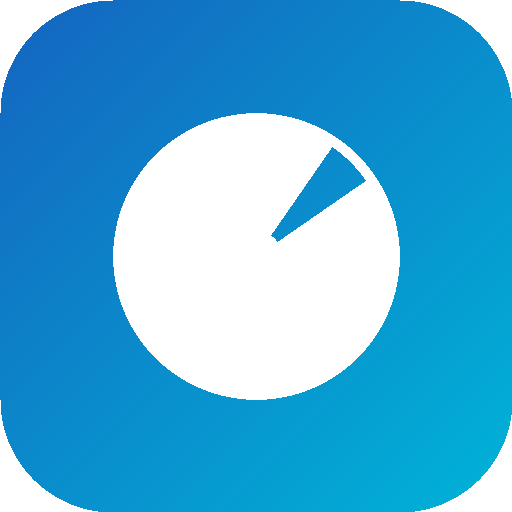
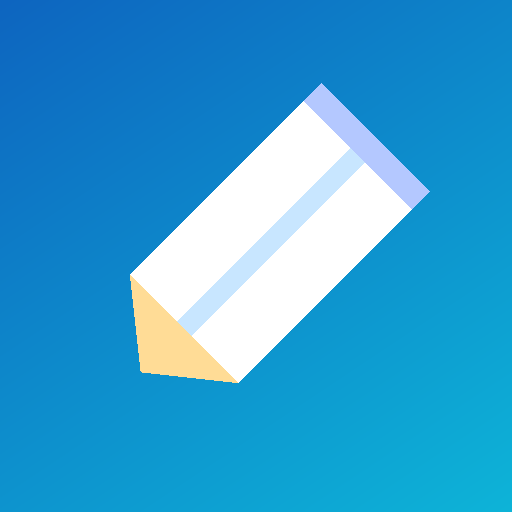
feat: tutorial completo, guia de instalacao Android/iOS, icones melhorados, manifest corrigido

diff --git a/index.html b/index.html
@@ -38,6 +38,7 @@
         <span class="material-icons-round">workspace_premium</span>
         <span id="planChipLabel">Premium</span>
       </div>
+      <button class="icon-btn" id="btnHelp" title="Ajuda"><span class="material-icons-round">help_outline</span></button>
       <button class="icon-btn" id="btnSearch"><span class="material-icons-round">search</span></button>
       <button class="icon-btn" id="btnProfile"><span class="material-icons-round">account_circle</span></button>
     </div>
@@ -339,7 +340,18 @@
             <span class="material-icons-round" style="color:var(--accent)">install_mobile</span>
             <div>
               <p class="settings-label">Instalar no celular</p>
-              <p class="settings-sub">Adicione o app à tela inicial</p>
+              <p class="settings-sub">Guia passo a passo para Android e iPhone</p>
+            </div>
+          </div>
+          <span class="material-icons-round settings-arrow">chevron_right</span>
+        </div>
+
+        <div class="settings-item clickable" id="btnHelpSettings">
+          <div class="settings-item-info">
+            <span class="material-icons-round" style="color:var(--blue-glow)">menu_book</span>
+            <div>
+              <p class="settings-label">Como usar o app</p>
+              <p class="settings-sub">Tutorial passo a passo completo</p>
             </div>
           </div>
           <span class="material-icons-round settings-arrow">chevron_right</span>
@@ -642,6 +654,136 @@
       <button class="btn-ghost" id="btnCancelPayment">Cancelar</button>
     </div>
     <p class="stripe-security"><span class="material-icons-round">lock</span>Pagamento seguro via Stripe</p>
+  </div>
+</div>
+
+<!-- MODAL: AJUDA / TUTORIAL -->
+<div class="modal-overlay hidden" id="modalHelp">
+  <div class="modal-sheet tall">
+    <div class="modal-handle"></div>
+    <div class="help-header">
+      <span class="material-icons-round help-icon">menu_book</span>
+      <h3 class="modal-title" style="margin:0">Como usar o Scribble Converter</h3>
+    </div>
+
+    <div class="help-steps">
+
+      <div class="help-step">
+        <div class="step-num">1</div>
+        <div class="step-body">
+          <p class="step-title">Crie sua conta</p>
+          <p class="step-desc">Toque em <strong>Perfil</strong> → <strong>Criar conta</strong>. Insira seu e-mail e senha, aceite a Política de Privacidade e pronto. O login guarda seus documentos na nuvem.</p>
+        </div>
+      </div>
+
+      <div class="help-step">
+        <div class="step-num">2</div>
+        <div class="step-body">
+          <p class="step-title">Escaneie um documento</p>
+          <p class="step-desc">Toque no botão <strong>azul</strong> (câmera) no canto inferior direito. Escolha <strong>Câmera</strong> para fotografar ou <strong>Galeria</strong> para enviar uma imagem já salva.</p>
+        </div>
+      </div>
+
+      <div class="help-step">
+        <div class="step-num">3</div>
+        <div class="step-body">
+          <p class="step-title">Escolha o tipo de saída</p>
+          <p class="step-desc">Antes de reconhecer, selecione <strong>Word (.docx)</strong> para textos corridos ou <strong>Excel (.xlsx)</strong> para documentos com números e tabelas.</p>
+        </div>
+      </div>
+
+      <div class="help-step">
+        <div class="step-num">4</div>
+        <div class="step-body">
+          <p class="step-title">Reconheça o texto</p>
+          <p class="step-desc">Toque em <strong>"Reconhecer Texto"</strong>. O OCR processa a imagem, melhora o contraste automaticamente e extrai o texto manuscrito ou impresso.</p>
+        </div>
+      </div>
+
+      <div class="help-step">
+        <div class="step-num">5</div>
+        <div class="step-body">
+          <p class="step-title">Edite e exporte</p>
+          <p class="step-desc">O texto aparece editável. Corrija se necessário, dê um nome ao documento e toque em <strong>Exportar para Word</strong> ou <strong>Excel</strong>. O arquivo é baixado direto no celular. <em>(Requer plano Premium)</em></p>
+        </div>
+      </div>
+
+      <div class="help-step">
+        <div class="step-num">6</div>
+        <div class="step-body">
+          <p class="step-title">Salve na nuvem</p>
+          <p class="step-desc">Toque em <strong>Salvar</strong> para guardar o documento na nuvem (Supabase). Acesse de qualquer dispositivo fazendo login. <em>(Requer plano Premium)</em></p>
+        </div>
+      </div>
+
+      <div class="help-step">
+        <div class="step-num">7</div>
+        <div class="step-body">
+          <p class="step-title">Compartilhe</p>
+          <p class="step-desc">Toque em <strong>Compartilhar</strong> para enviar o texto via WhatsApp, e-mail ou copiar para a área de transferência. Disponível em todos os planos.</p>
+        </div>
+      </div>
+
+      <div class="help-step">
+        <div class="step-num">8</div>
+        <div class="step-body">
+          <p class="step-title">Assine o Premium</p>
+          <p class="step-desc">Visitantes têm <strong>5 scans/mês</strong> e não podem exportar. Assine o <strong>Premium (R$ 19,90/mês)</strong> ou <strong>Anual (R$ 167,00)</strong> para uso ilimitado.</p>
+        </div>
+      </div>
+
+      <div class="help-tip">
+        <span class="material-icons-round">lightbulb</span>
+        <div>
+          <strong>Dicas para melhor OCR:</strong>
+          <ul>
+            <li>Boa iluminação, sem sombras sobre o texto</li>
+            <li>Câmera paralela ao papel (sem inclinação)</li>
+            <li>Letra legível e espaçada</li>
+            <li>Em <strong>Config.</strong> ajuste o <em>Tipo de documento</em> conforme o conteúdo</li>
+          </ul>
+        </div>
+      </div>
+
+    </div>
+
+    <div class="modal-footer" style="margin-top:16px">
+      <button class="btn-primary large" id="btnCloseHelp">
+        <span class="material-icons-round">check</span>Entendi, vamos lá!
+      </button>
+    </div>
+  </div>
+</div>
+
+<!-- MODAL: INSTALAR APP (guia passo a passo) -->
+<div class="modal-overlay hidden" id="modalInstallGuide">
+  <div class="modal-sheet">
+    <div class="modal-handle"></div>
+    <div class="help-header">
+      <span class="material-icons-round help-icon" style="background:linear-gradient(135deg,#1565C0,#00B4D8)">install_mobile</span>
+      <h3 class="modal-title" style="margin:0">Instalar o App</h3>
+    </div>
+
+    <!-- Android -->
+    <div id="installAndroid">
+      <p class="install-os-title"><span class="material-icons-round">android</span> Android (Chrome)</p>
+      <div class="help-step"><div class="step-num">1</div><div class="step-body"><p class="step-title">Abra no Chrome</p><p class="step-desc">Acesse <strong>nelsonassembler-svg.github.io/scribble-converter</strong> no navegador Chrome do celular.</p></div></div>
+      <div class="help-step"><div class="step-num">2</div><div class="step-body"><p class="step-title">Toque nos 3 pontinhos</p><p class="step-desc">No canto superior direito do Chrome toque em <strong>⋮</strong> (menu).</p></div></div>
+      <div class="help-step"><div class="step-num">3</div><div class="step-body"><p class="step-title">Instalar app</p><p class="step-desc">Toque em <strong>"Instalar app"</strong> ou <strong>"Adicionar à tela inicial"</strong>. Confirme tocando em <strong>Instalar</strong>.</p></div></div>
+      <div class="help-step"><div class="step-num">4</div><div class="step-body"><p class="step-title">Pronto!</p><p class="step-desc">O app aparece na tela inicial e na gaveta de apps como um aplicativo nativo, sem barra do Chrome.</p></div></div>
+
+      <div class="install-divider"></div>
+
+      <p class="install-os-title"><span class="material-icons-round">apple</span> iPhone / iPad (Safari)</p>
+      <div class="help-step"><div class="step-num">1</div><div class="step-body"><p class="step-title">Abra no Safari</p><p class="step-desc">No iPhone, use o <strong>Safari</strong> (não Chrome). Acesse o link do app.</p></div></div>
+      <div class="help-step"><div class="step-num">2</div><div class="step-body"><p class="step-title">Toque em Compartilhar</p><p class="step-desc">Toque no ícone de <strong>compartilhar</strong> (quadrado com seta para cima) na barra inferior do Safari.</p></div></div>
+      <div class="help-step"><div class="step-num">3</div><div class="step-body"><p class="step-title">Adicionar à Tela Inicial</p><p class="step-desc">Role a lista e toque em <strong>"Adicionar à Tela de Início"</strong>. Confirme o nome e toque em <strong>Adicionar</strong>.</p></div></div>
+    </div>
+
+    <button class="btn-primary large" id="btnInstallNow" style="margin-top:16px;width:100%;justify-content:center">
+      <span class="material-icons-round">install_mobile</span>Instalar agora (Android)
+    </button>
+    <button class="btn-ghost" id="btnCloseInstallGuide" style="width:100%;justify-content:center;margin-top:8px">Fechar</button>
   </div>
 </div>
 

diff --git a/style.css b/style.css
@@ -863,6 +863,70 @@ html, body {
 .user-plan-label.premium { color: #AB47BC; }
 .user-plan-label.admin   { color: gold; }
 
+/* ===== HELP / TUTORIAL ===== */
+.help-header {
+  display: flex; align-items: center; gap: 14px;
+  margin-bottom: 20px;
+}
+.help-icon {
+  font-size: 28px !important;
+  width: 52px; height: 52px;
+  background: linear-gradient(135deg, var(--blue), var(--accent));
+  border-radius: 14px;
+  display: flex; align-items: center; justify-content: center;
+  flex-shrink: 0; color: #fff;
+}
+.help-steps {
+  display: flex; flex-direction: column; gap: 0;
+  max-height: 60vh; overflow-y: auto;
+  padding-right: 4px;
+}
+.help-steps::-webkit-scrollbar { width: 3px; }
+.help-steps::-webkit-scrollbar-thumb { background: var(--border); border-radius: 99px; }
+
+.help-step {
+  display: flex; align-items: flex-start; gap: 14px;
+  padding: 14px 0;
+  border-bottom: 1px solid var(--border);
+}
+.help-step:last-of-type { border-bottom: none; }
+
+.step-num {
+  width: 28px; height: 28px;
+  background: linear-gradient(135deg, var(--blue), var(--blue-light));
+  color: #fff; border-radius: 50%;
+  display: flex; align-items: center; justify-content: center;
+  font-size: 13px; font-weight: 800; flex-shrink: 0;
+  margin-top: 2px;
+}
+.step-title { font-size: 14px; font-weight: 700; margin-bottom: 4px; }
+.step-desc  { font-size: 13px; color: var(--white-70); line-height: 1.6; }
+.step-desc em { color: var(--white-40); }
+
+.help-tip {
+  display: flex; align-items: flex-start; gap: 12px;
+  background: rgba(255,180,0,.08);
+  border: 1px solid rgba(255,180,0,.2);
+  border-radius: var(--radius-sm);
+  padding: 14px; margin-top: 8px;
+  font-size: 13px; color: var(--white-70);
+}
+.help-tip .material-icons-round { color: #FFB400; flex-shrink: 0; font-size: 20px; margin-top: 2px; }
+.help-tip strong { color: var(--white); display: block; margin-bottom: 6px; }
+.help-tip ul { padding-left: 16px; display: flex; flex-direction: column; gap: 4px; margin-top: 4px; }
+
+/* ===== INSTALL GUIDE ===== */
+.install-os-title {
+  display: flex; align-items: center; gap: 8px;
+  font-size: 14px; font-weight: 700; color: var(--blue-glow);
+  margin: 16px 0 8px;
+}
+.install-os-title .material-icons-round { font-size: 20px; }
+.install-divider {
+  height: 1px; background: var(--border);
+  margin: 16px 0 4px;
+}
+
 /* ===== INSTALL BANNER ===== */
 .install-banner {
   position: fixed;

diff --git a/app.js b/app.js
@@ -133,21 +133,36 @@ window.addEventListener('appinstalled', () => {
 
 window.addEventListener('load', () => setTimeout(showInstallButtons, 2500));
 
+function openInstallGuide() {
+  // Ajusta o botão "Instalar agora" conforme disponibilidade
+  const btn = $('btnInstallNow');
+  if (btn) {
+    if (deferredInstallPrompt) {
+      btn.classList.remove('hidden');
+      btn.innerHTML = '<span class="material-icons-round">install_mobile</span>Instalar agora';
+    } else {
+      btn.classList.add('hidden');
+    }
+  }
+  $('modalInstallGuide').classList.remove('hidden');
+}
+
 async function triggerInstall() {
   if (deferredInstallPrompt) {
-    deferredInstallPrompt.prompt();
-    const { outcome } = await deferredInstallPrompt.userChoice;
-    if (outcome === 'accepted') {
-      deferredInstallPrompt = null;
-      document.querySelectorAll('.btn-install-footer').forEach(b => b.classList.add('hidden'));
-      $('installBanner')?.classList.add('hidden');
-    }
+    $('modalInstallGuide')?.classList.add('hidden');
+    $('installBanner')?.classList.add('hidden');
+    try {
+      await deferredInstallPrompt.prompt();
+      const { outcome } = await deferredInstallPrompt.userChoice;
+      if (outcome === 'accepted') {
+        deferredInstallPrompt = null;
+        showToast('App instalado com sucesso! 🎉');
+      }
+    } catch {}
     return;
   }
-  const isIOS = /iphone|ipad|ipod/i.test(navigator.userAgent);
-  showToast(isIOS
-    ? 'No Safari: toque em Compartilhar → "Adicionar à Tela Inicial"'
-    : 'No Chrome: menu (⋮) → "Adicionar à tela inicial"');
+  // Sem prompt nativo → abre guia
+  openInstallGuide();
 }
 
 /* ===== INIT ===== */
@@ -161,16 +176,33 @@ window.addEventListener('load', async () => {
       $('splash').classList.add('hidden');
       $('app').classList.remove('hidden');
       loadDocs();
+      // Mostra tutorial na primeira visita
+      if (!localStorage.getItem('scribble_onboarded')) {
+        setTimeout(() => {
+          $('modalHelp').classList.remove('hidden');
+          localStorage.setItem('scribble_onboarded', '1');
+        }, 600);
+      }
     }, 500);
   }, 1800);
 });
 
 document.addEventListener('DOMContentLoaded', () => {
-  // Install
-  document.querySelectorAll('.btn-install-footer').forEach(b => b.addEventListener('click', triggerInstall));
+  // Ajuda
+  $('btnHelp')?.addEventListener('click',         () => $('modalHelp').classList.remove('hidden'));
+  $('btnCloseHelp')?.addEventListener('click',    () => $('modalHelp').classList.add('hidden'));
+  $('btnHelpSettings')?.addEventListener('click', () => $('modalHelp').classList.remove('hidden'));
+  $('modalHelp')?.addEventListener('click', e => { if (e.target === $('modalHelp')) $('modalHelp').classList.add('hidden'); });
+
+  // Install guia
+  $('btnInstallSettings')?.addEventListener('click', openInstallGuide);
+  $('btnInstallNow')?.addEventListener('click', triggerInstall);
+  $('btnCloseInstallGuide')?.addEventListener('click', () => $('modalInstallGuide').classList.add('hidden'));
+  $('modalInstallGuide')?.addEventListener('click', e => { if (e.target === $('modalInstallGuide')) $('modalInstallGuide').classList.add('hidden'); });
+
+  // Install banner
   $('btnInstallConfirm')?.addEventListener('click', triggerInstall);
   $('btnInstallDismiss')?.addEventListener('click', () => $('installBanner').classList.add('hidden'));
-  $('btnInstallSettings')?.addEventListener('click', triggerInstall);
 
   // Settings
   $('settingLang')?.addEventListener('change',    e => { settings.lang    = e.target.value;           saveSettings(); });